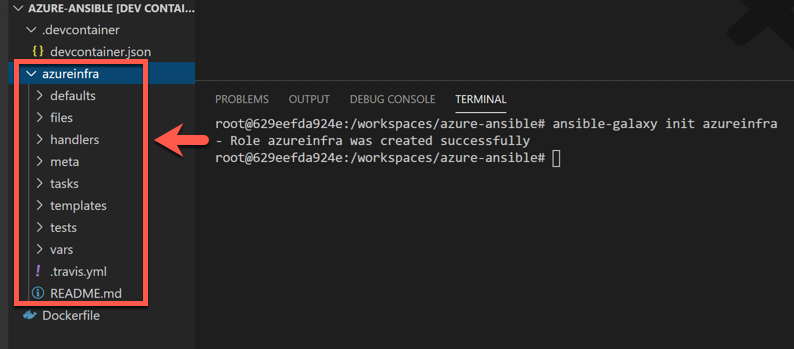
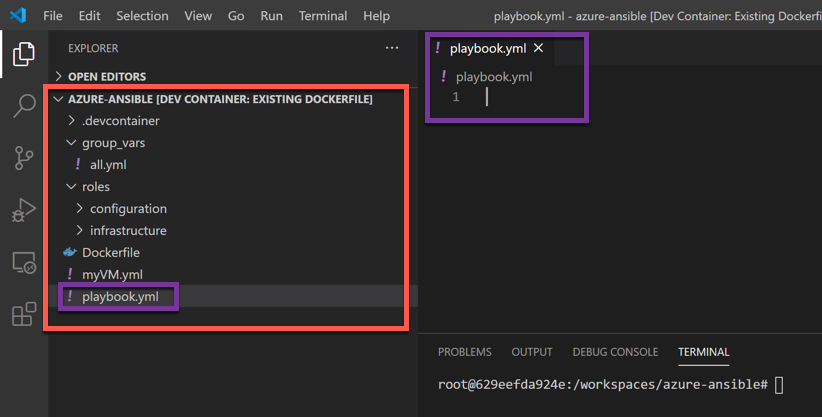
End to end deployment guide for a resource group

diff --git a/_drafts/Automating-Azure-With-Ansible-Part-1-Environment-Setup.md b/_drafts/Automating-Azure-With-Ansible-Part-1-Environment-Setup.md
@@ -149,25 +149,185 @@ Now, right click the file and choose 'Build Image'. If Docker is setup correctly
 
 ## Run a Remote Container VSCode Instance
 
+Now the fun part. Click the little green >< icon on the bottom left of VSCode and at the top of the screen choose 'Remote-Containers: Reopen in Container'
+
 ![](../assets/images/2020/Automating-Azure-With-Ansible/060.png)
 
 ![](../assets/images/2020/Automating-Azure-With-Ansible/065.png)
 
+Then we tell it want to use our Dockerfile as the remote container instance
 ![](../assets/images/2020/Automating-Azure-With-Ansible/070.png)
 
+Wait a few seconds... 
 ![](../assets/images/2020/Automating-Azure-With-Ansible/075.png)
 
+Boom! Bring up a terminal if it isn't there (CTRL-') and run a few commands. We have ansible installed and are running from our container which is a different machine effectively.
 ![](../assets/images/2020/Automating-Azure-With-Ansible/080.png)
+
+Not that this also maps the files from our work folder into this container and so we can see/work with those here. This is where the magic happens as we can develop on Windows but use a linux container backend. Very nice.
 
 ## Create an Ansible Role Playbook
 
-We can now create an ansible playbook, or more specifically, a role. This command creates a file/folder structure for a role which we can use to create our Azure setup.
+We can now create an ansible playbook. A playbook is simply the steps we want ansible to carry out. We will create two 'roles' inside this, one to create the VM (infrastructure) and the other to connect to it and configure it (configuration).
+
+In our working folder, create the following folders and empty files.
+
+```bash
+mkdir group_vars && touch group_vars/all.yml
+mkdir roles
+touch myVM.yml
+touch playbook.yml
 ```
-root@629eefda924e:/workspaces/azure-ansible# ansible-galaxy init azureinfra
-- Role azureinfra was created successfully
+
+Then, cd into the roles folder and create our two roles by running these commands;
+
+```bash
+cd roles
+
+ansible-galaxy init infrastructure
+- Role infrastructure was created successfully
+
+ansible-galaxy init configuration
+- Role configuration was created successfully
 ```
+
+The structure should be like this. I've removed the role folders/files for brevity, but it will make a lot of items.
+```bash
+.
+├── Dockerfile
+├── group_vars
+│   └── all.yml
+├── myVM.yml
+├── playbook.yml
+└── roles
+    ├── configuration
+    │   ├── README.md
+    │   ├── ...
+    └── infrastructure
+        ├── README.md
+        ├── ...
+
+20 directories, 20 files
+```
+
+And note this is reflected in our VSCode, perfect. We can edit them directly from it.
 
 ![](../assets/images/2020/Automating-Azure-With-Ansible/085.png)
 
+### Basic Playbook Setup
 
-- Make a Basic VM and deploy it...
+Let's start simply and try to have ansible create a resource group in Azure for us. 
+
+#### playbook.yml
+
+In```playbook.yml``` file. Add this;
+
+```yaml
+- name: "Provision Azure infrastructure"  # Just a name for our own use really
+  hosts: localhost                        # Run this item from our 'local' machine
+  #connection: local                      # 
+  pre_tasks:                              # We want load in our variables to customise the run
+    - name: Load our variables
+      include_vars: "{{ env }}"           # A variable file to load, which we tell ansible at run time
+  roles:
+    - infrastructure                      # The role we want to run
+```
+
+#### /group_vars/all.yml
+
+Then, in ```/group_vars/all.yml```, which will store default values for us. Including our azure vars we will pass at runtime. So, add this;
+
+```yaml
+# Turn our passed env variables into something ansible can use to talk to azure
+client_id: "{{ lookup('env','AZURE_CLIENT_ID') }}"
+secret: "{{ lookup('env','AZURE_SECRET') }}"
+tenant_id: "{{ lookup('env','AZURE_TENANT') }}"
+azure_clients_object_id: "{{ lookup('env','AZURE_CLIENTS_OBJECT_ID') }}"  #TEMP - should figure this out at runtime
+
+# Where to deploy our resources by default
+location: "northeurope"
+```
+
+#### /roles/infrastructure/tasks/main.yml
+
+Then, in ```/roles/infrastructure/tasks/main.yml```, which will store default values for us, add this;
+
+```yaml
+---
+# tasks file for infrastructure
+
+- name: Resource Group tasks
+  include_tasks: resource-group.yml
+  ```
+
+Notice we are asking it to run tasks in another file, so create the beside main.yml called ```resource-group.yml``` and paste in this. It looks worse than it is. Notice the items in brackets, these are variables and ansible will fill in these values for us later based on what we pass in. This also our first 'Azure' resource creation item. Check the docs [here](https://docs.ansible.com/ansible/latest/collections/azure/azcollection/azure_rm_resourcegroup_module.html) for more info on it and what else we could specify etc...
+
+```yaml
+- name: Create Resource Group
+  azure.azcollection.azure_rm_resourcegroup:
+    subscription_id: "{{ subscription_id }}"
+    client_id: "{{ client_id }}"
+    secret: "{{ secret }}"
+    tenant: "{{ tenant_id }}"
+    location: "{{ location }}"
+    name: "{{ resource_group_name }}"
+```
+
+#### myVM.yml
+
+And finally, add this to ```myVM.yml```. This is a config file of sorts we can use to represent an environment we want to deploy. We can create lots of these, one for each VM we want. One thing we do need to put in is our azure ```subscription_id``` as this is currently referenced in the resource-group.yml file and will be used in all azure resource declarations we make, so we define it here to keep things flexible later in case want to deploy this to another subscription later for example. Grab yours from the azure portal.
+
+```yaml
+subscription_id:     "put-in-your-subscription-id-here"
+resource_group_name: "Ansible-Infra"
+vm_name:             "iainsansiblevm"
+```
+
+### Deployment
+
+Now, we need to run it. First, we export our azure details from earlier to the bash shell so ansible can read them. Put in your Service Principal details from earlier and run this in the VSCode terminal;
+
+```bash
+export AZURE_TENANT=faa9681f-25c0-459c-95c2-b45a98e87sc3
+export AZURE_CLIENT_ID=e6f23ac2-e1ff-4abf-918e-c3a7f756a13a
+export AZURE_CLIENTS_OBJECT_ID=654f57d9-68e5-42ab-87d6-9c8c106412f2
+export AZURE_SECRET=put-your-secret-here-oh-and-never-in-git!
+```
+
+And then we run our playbook...
+
+```yaml
+ansible-playbook playbook.yml -e env=myVM.yml
+```
+
+
+Success!!!
+
+```yaml
+root@629eefda924e:/workspaces/azure-ansible# ansible-playbook playbook.yml -e env=myVM.yml
+[WARNING]: No inventory was parsed, only implicit localhost is available
+[WARNING]: provided hosts list is empty, only localhost is available. Note that the implicit localhost does not match 'all'
+
+PLAY [Provision Azure infrastructure] ***********************************************************************************************************
+
+TASK [Gathering Facts] **************************************************************************************************************************
+ok: [localhost]
+
+TASK [Load our variables] ***********************************************************************************************************************
+ok: [localhost]
+
+TASK [infrastructure : Resource Group tasks] ****************************************************************************************************
+included: /workspaces/azure-ansible/roles/infrastructure/tasks/resource-group.yml for localhost
+
+TASK [infrastructure : Create Resource Group] ***************************************************************************************************
+changed: [localhost]
+
+PLAY RECAP **************************************************************************************************************************************
+localhost                  : ok=4    changed=1    unreachable=0    failed=0    skipped=0    rescued=0    ignored=0   
+
+root@629eefda924e:/workspaces/azure-ansible#
+```
+
+It's in azure too!
+
+![](../assets/images/2020/Automating-Azure-With-Ansible/095.png)
